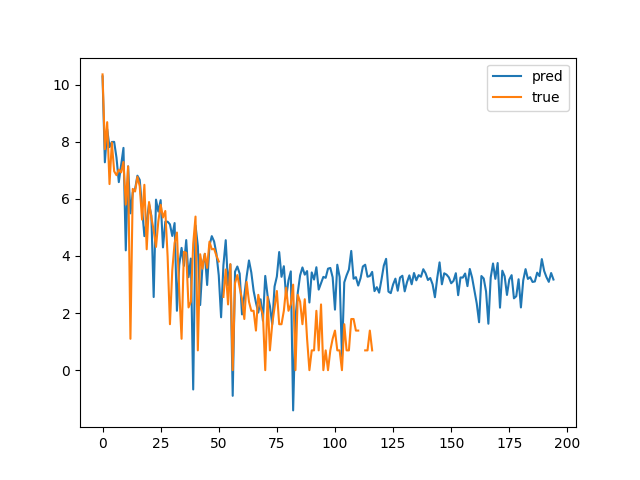
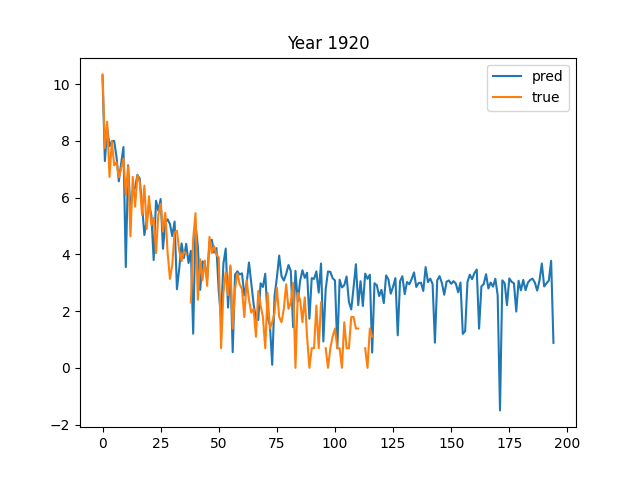
added plots

diff --git a/main2.py b/main2.py
@@ -3,6 +3,8 @@ from policy_net import Actor, Critic
 import trainer
 import evaluate
 import torch
+import plots
+from tqdm import tqdm
 import matplotlib.pyplot as plt
 device = torch.device('cuda') if torch.cuda.is_available() else torch.device('cpu')
     
@@ -20,19 +22,31 @@ trj.reset()
 # epochs = 50
 
 # trainer.run(epochs, trj, actor, critic, actor_optimizer, critic_optimizer)
-for year in range(2020,1895,-5):
-    pred,true = evaluate.run(year)[3:5]
-    pred = pred.squeeze(0)
+# for year in tqdm(range(2020,1895,-5)):
+#     pred,true = evaluate.run(year)[3:5]
+#     pred = pred.squeeze(0)
 
-    plt.plot(torch.log(abs(pred)), label='pred')
-    plt.plot(torch.log(abs(true)), label='true')
-    plt.legend()
-    plt.savefig('output.png')
-    plt.clf()
+    # plt.plot(torch.log(abs(pred)), label='pred')
+    # plt.plot(torch.log(abs(true)), label='true')
+    # plt.title(f'Year {year}')
+    # plt.legend()
+    # plt.savefig(f'Plots/coeff_plot_{year}.png', dpi=600)
+    # plt.clf()
 
-    LON, LAT, (F, B_r, B_theta, B_phi) = trj.contour_plot(1000,1000,true)
-    div1 = trj.divergence(6371.2, 90-LAT, LON, B_r, B_theta, B_phi)
+    # plots.contour_plot(trj, pred, year)
 
-    LON, LAT, (F, B_r, B_theta, B_phi) = trj.contour_plot(1000,1000,pred)
-    div2 = trj.divergence(6371.2, 90-LAT, LON, B_r, B_theta, B_phi)
-    print(div1>div2)
+#     LON, LAT, (F, B_r, B_theta, B_phi) = trj.contour_plot(1000,1000,true)
+#     div1 = trj.divergence(6371.2, 90-LAT, LON, B_r, B_theta, B_phi)
+
+#     LON, LAT, (F, B_r, B_theta, B_phi) = trj.contour_plot(1000,1000,pred)
+#     div2 = trj.divergence(6371.2, 90-LAT, LON, B_r, B_theta, B_phi)
+#     print(div1>div2)
+
+# evaluate.run(1945)
+year = 1920
+pred,true = evaluate.run(year)[3:5]
+pred = pred.squeeze(0)
+true = trj.coeff(year)
+
+print(trj.dipole_fraction(pred))
+print(trj.dipole_fraction(true))

diff --git a/plots.py b/plots.py
@@ -56,24 +56,24 @@ def contour_plot(trj, pred_coeff, lat_spaceing = 1000, lon_spacing = 1500):
     fig.savefig(f'Plots/{trj.year}/contour_plot_{trj.year}.png',dpi=1200)
     plt.close()
 
-def gauss_coeff_plot(trj, pred_coeff):
+def gauss_coeff_plot(trj, pred_coeff, year):
 
-    plt.plot(abs(trj.coeff), label='DGRF', c='b')
+    plt.plot(abs(trj.coeff(year)), label='DGRF', c='b')
     plt.plot(abs(pred_coeff), label='Predicted', c='r')
     plt.xlabel('Gauss coefficient ID', fontweight='bold')
     plt.ylabel('|Gauss coefficient value|', fontweight='bold')
     plt.legend()
     plt.title('Absolute Gauss Coefficients (original scale)', fontweight='bold')
-    plt.savefig(f'Plots/{trj.year}/orig_vs_pred(norm)_{trj.year}.png',dpi=600)
+    plt.savefig(f'Plots/orig_vs_pred(norm)_{year}.png',dpi=600)
     plt.close()
 
     plt.plot(np.log(abs(pred_coeff)), label='Predicted', c='r')
-    plt.plot(np.log(abs(trj.coeff)), label='DGRF', c='b', alpha=0.6)
+    plt.plot(np.log(abs(trj.coeff(year))), label='DGRF', c='b', alpha=0.6)
     plt.xlabel('Gauss coefficient ID', fontweight='bold')
     plt.ylabel('log(|Gauss coefficient value|)', fontweight='bold')
     plt.legend()
     plt.title('Gauss Coefficients (logarithmic scale)', fontweight='bold')
-    plt.savefig(f'Plots/{trj.year}/orig_vs_pred(log)_{trj.year}.png',dpi=600)
+    plt.savefig(f'Plots/orig_vs_pred(log)_{year}.png',dpi=600)
     plt.close()
 
 def obs_diff(trj, pred_coeff, N=10):

diff --git a/environment.py b/environment.py
@@ -68,7 +68,7 @@ class MDP:
 
         cont = torch.mean((s-s_)**2)
 
-        df = self.dipole_fraction(s_)
+        # df = self.dipole_fraction(s_)
 
 
         # alpha = 100
@@ -79,7 +79,7 @@ class MDP:
         # R2 = 1e-4*np.mean(abs(self.contour_plot(100,150,coeff=s_)[2] - self.contour_plot(100,150)[2]))
         # R3 = abs(sum(abs(s_[120:])-60))
         # return -alpha * R1 - beta * R2 - gamma * R3
-        return 100/div + 10*cont + (9 - 10*df)
+        return 100/div + 10*cont
     
 
 class Trajectory(MDP):

diff --git a/evaluate.py b/evaluate.py
@@ -11,7 +11,6 @@ def run(year):
     policy = Actor(len(trj.current_state)).to(device)
     policy.load_state_dict(torch.load(f'Models/actor.pt'))
     pred_coeffs = trj.get_traj(year,1,policy)[0][-1]
-
     # plots.contour_plot(trj, pred_coeffs)
     # plots.gauss_coeff_plot(trj, pred_coeffs)
     # plots.obs_diff(trj, pred_coeffs)
